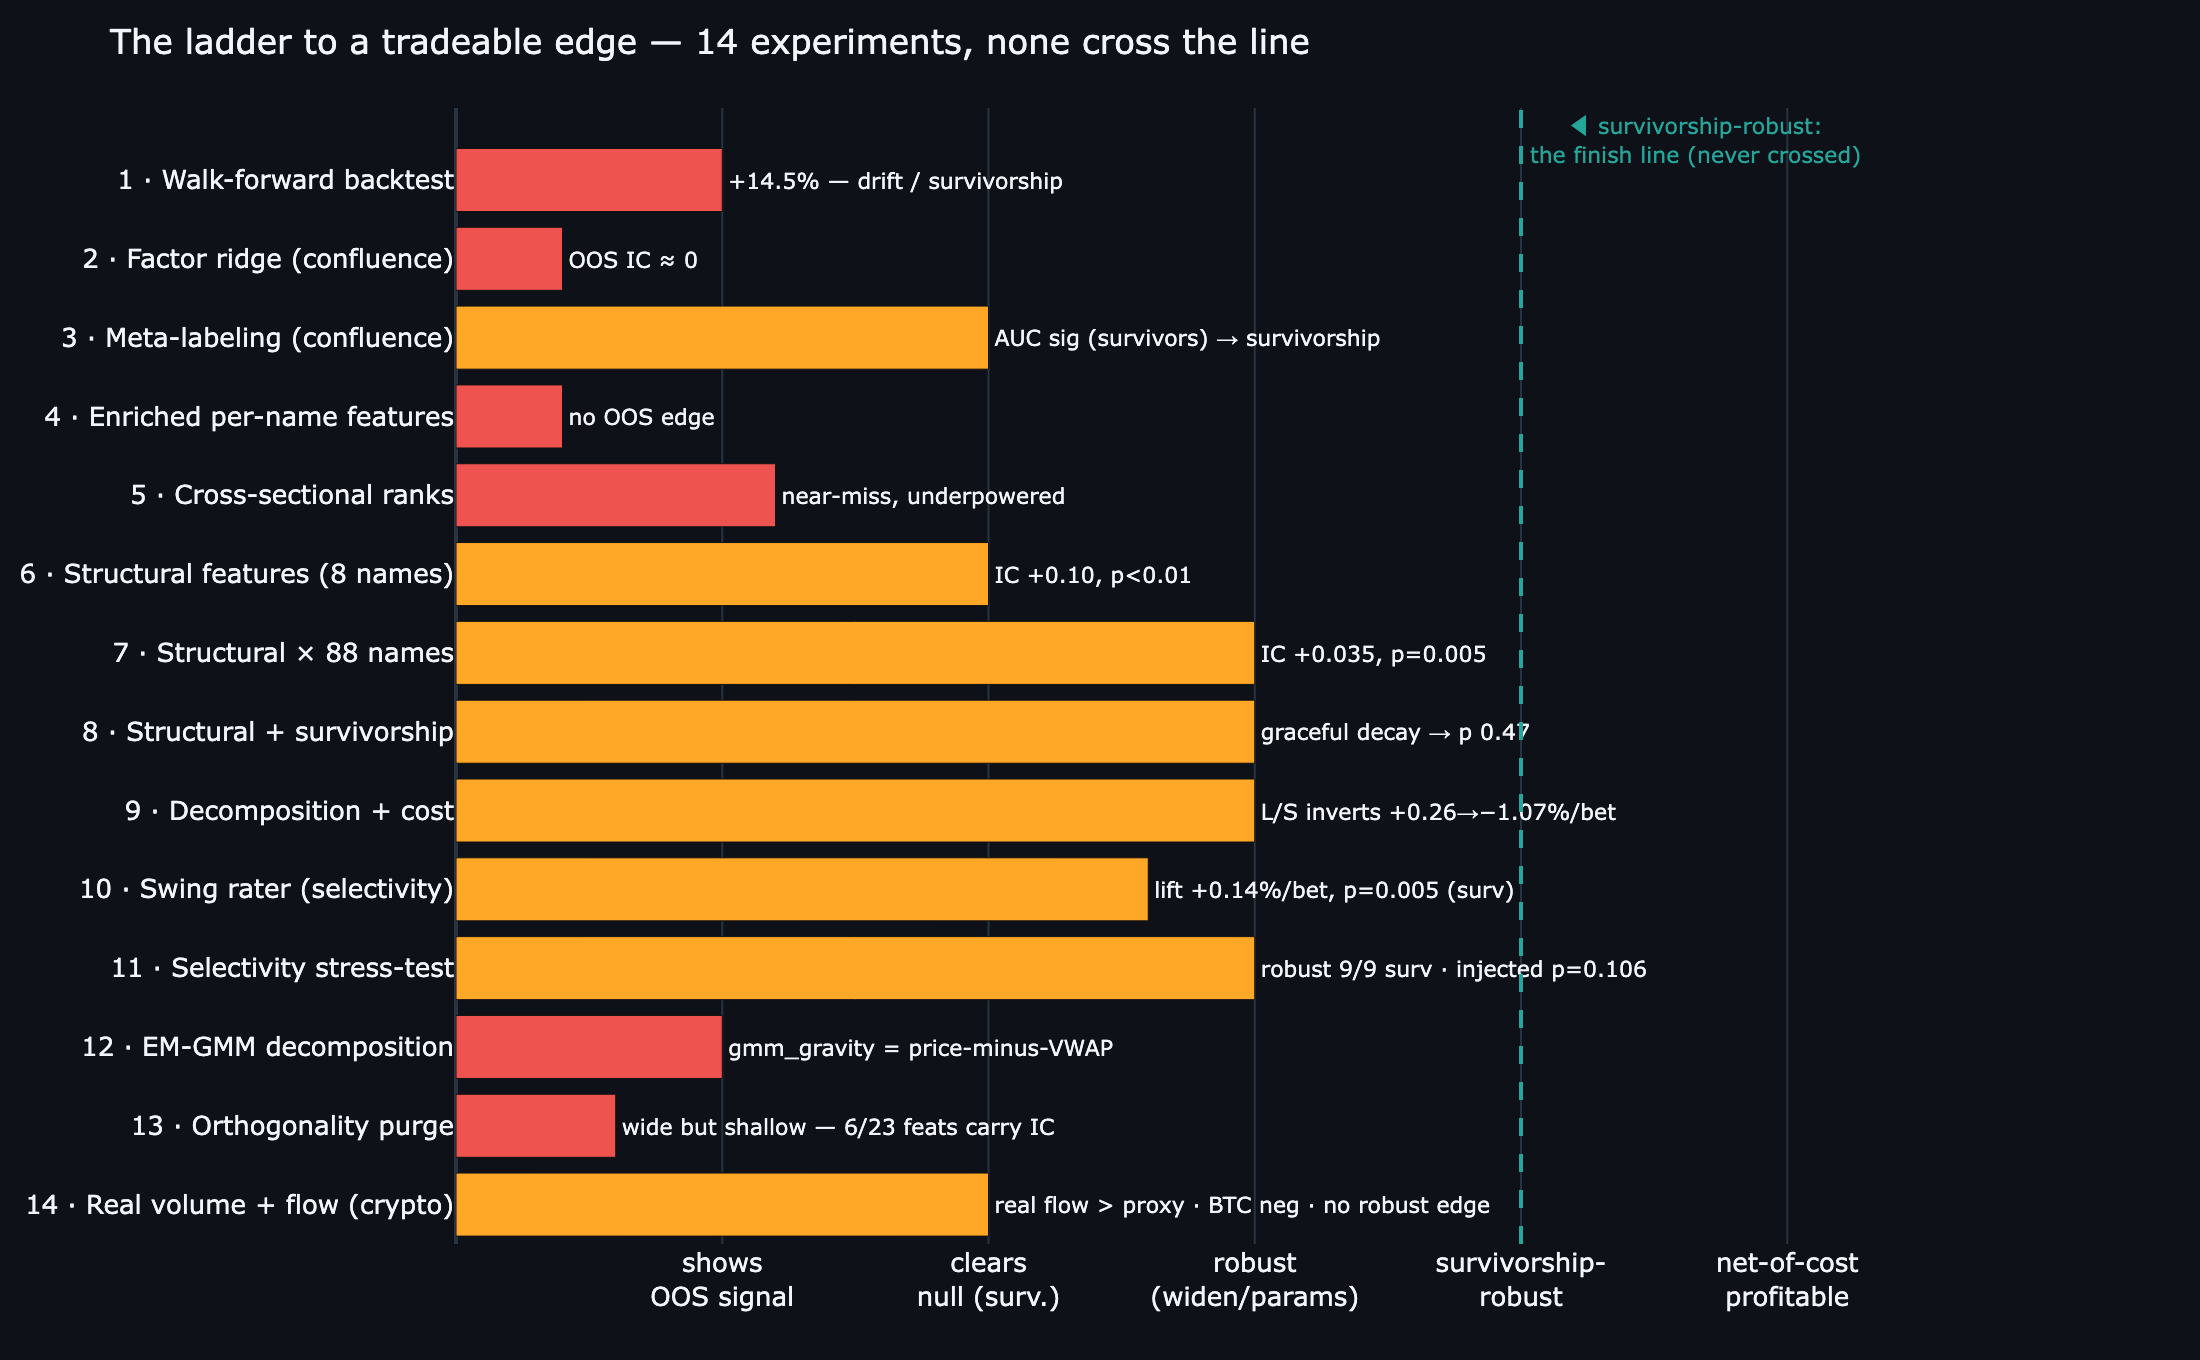
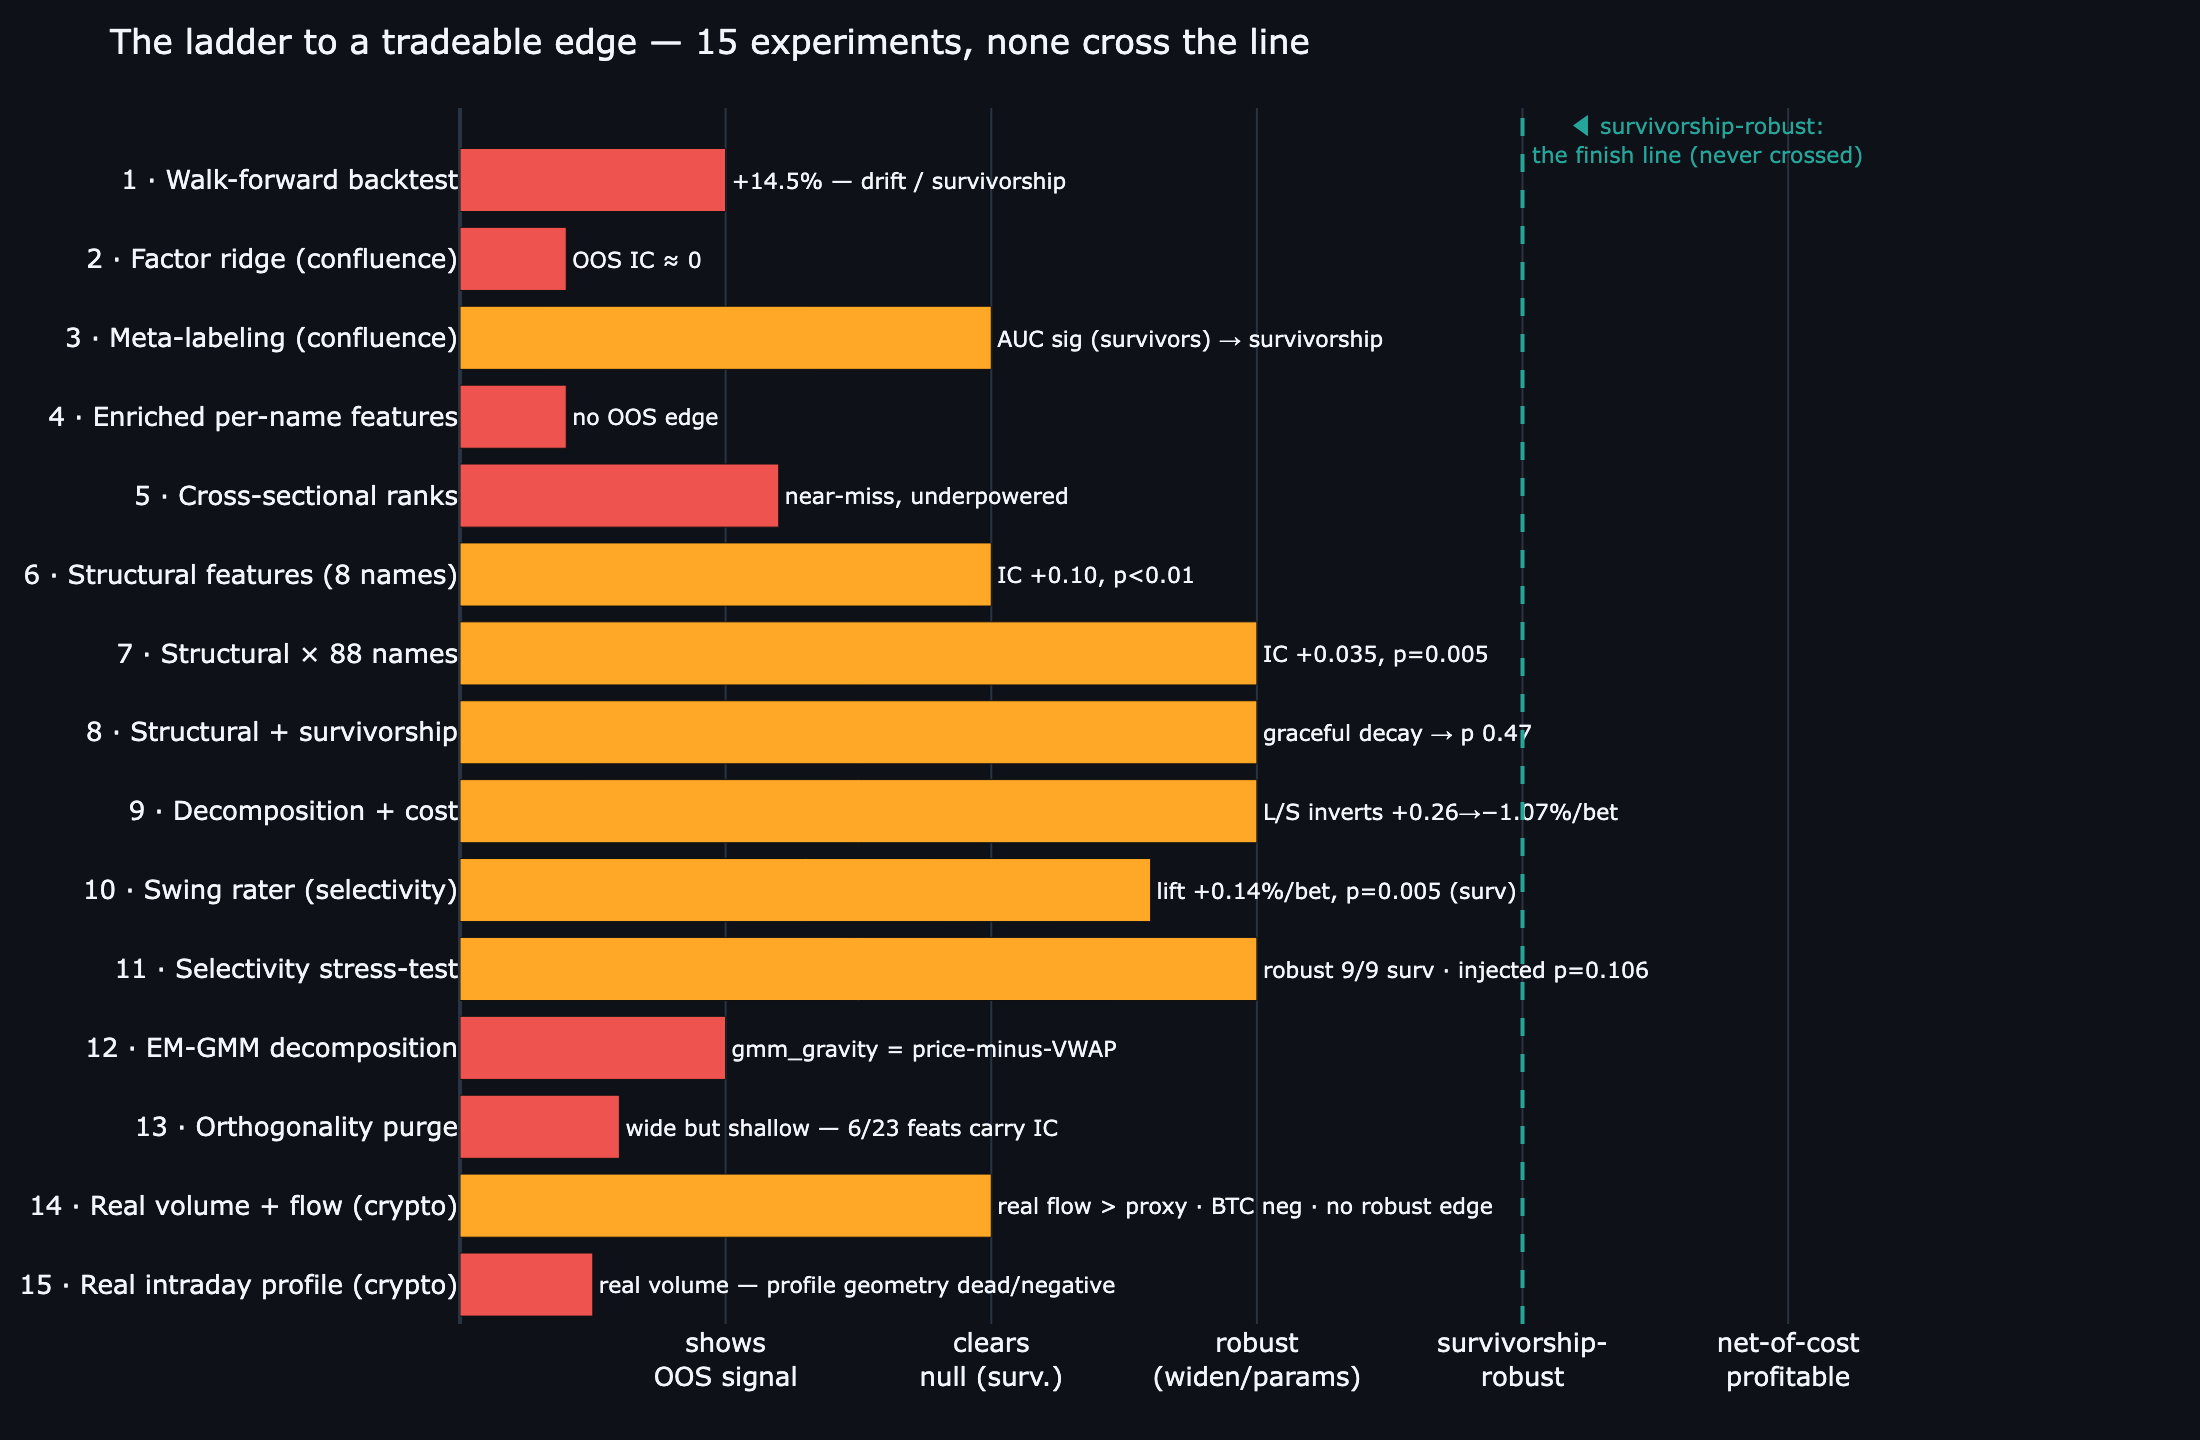
Experiment 15: real intraday volume profile — closes the synthesized-volume question
§14 used real crypto volume + flow but on daily bars, so the intra-day profile was
still synthesized — it tested real flow, not the real profile. This shuts that
loophole: hourly bars, so a 120-bar profile window aggregates 120 real hourly
volumes (intra-hour spread negligible across 5 days) = a genuine real intraday
profile. Builds the 13 structural features on it for 4 survivorship-light majors
(2,500 hourly bars each, ~104d, 2,284 events) through the same CPCV harness.

Finding (RESEARCH.md section 15): the volume-profile GEOMETRY does not predict even
here. Geometry-family mean OOS IC -0.026 (anti-predictive; kurtosis -0.13, 0/4
coins), full 13-feature ridge -0.006; only the trend/dip features (cost-basis
migration +0.06, POC slope +0.04) flicker, as on every dataset. Across the arc —
synthesized daily equity (1-13), real daily crypto volume+flow (14), and now the
real intraday crypto profile (15) — the profile geometry carries no predictive edge
at any. The synthesized input was never the bottleneck; the geometry simply doesn't
predict. The volume-profile thesis is closed.

No new library code (reuses vpts.data.crypto + the structural builder; 158 tests).
Regenerated arc figure (15 rungs) + research PDF (15 experiments, v1.12.0).
Bumps 1.11.0 -> 1.12.0.

diff --git a/examples/crypto_intraday_profile.py b/examples/crypto_intraday_profile.py
@@ -1,0 +1,119 @@
+"""Experiment 15 — the **real intraday volume profile** (the definitive real-profile test).
+
+§14 used *daily* crypto bars — real total volume and real flow, but the *intra-day*
+profile was still synthesized (volume spread uniformly inside each daily bar). So it
+tested real *flow*, not the real *profile*. This closes that gap: **hourly** bars, so a
+120-bar profile window aggregates 120 **real hourly volumes** — the intra-hour spread is
+a negligible fraction of a multi-day window, i.e. a genuine real intraday profile.
+
+The standing question since experiment 1: does the volume-**profile geometry** (POC
+location, value-area compression, P/b/B shape, skew/kurtosis) predict — or was the null
+just the *synthesized* input? Build the 13 structural features (`vpts.structure`) on real
+intraday crypto volume for continuously-listed majors (survivorship-light) and score
+each through the *same* CPCV harness, per-coin and pooled.
+
+    python examples/crypto_intraday_profile.py
+    python examples/crypto_intraday_profile.py --coins BTC-USDT ETH-USDT --limit 3000
+
+Honest scope: hourly bars over ~100 days (one regime), a few correlated majors — power-
+limited, not a forever-proof; single-venue; gross of cost. A research read, not advice.
+"""
+from __future__ import annotations
+
+import argparse
+import sys
+from pathlib import Path
+
+sys.path.insert(0, str(Path(__file__).resolve().parents[1]))
+
+import numpy as np  # noqa: E402
+
+from vpts import (  # noqa: E402
+    CombinatorialPurgedCV,
+    DataFetchError,
+    build_structural_dataset,
+    cpcv_factor_eval,
+)
+from vpts.data.crypto import fetch_crypto_ohlcv  # noqa: E402
+from vpts.ml.models import FactorDataset  # noqa: E402
+from vpts.structure.models import STRUCTURAL_FEATURES  # noqa: E402
+
+# Two families (López de Prado-style decomposition used throughout the study):
+GEOMETRY = ("skew", "kurtosis", "vacr_z", "poc_slope", "n_ledges", "poor_high", "is_P", "is_b", "is_B")
+FLOW_LOC = ("delta_net", "delta_poc", "poc_loc", "cost_basis_migration")
+DEFAULT_COINS = ["BTC-USDT", "ETH-USDT", "SOL-USDT", "BNB-USDT"]
+
+
+def _ic(ds, j: int, *, horizon: int, stride: int) -> float:
+    sub = FactorDataset(X=ds.X[:, [j]], y=ds.y, baseline=ds.baseline,
+                        feature_names=(STRUCTURAL_FEATURES[j],), horizon=horizon, stride=stride)
+    cv = CombinatorialPurgedCV(6, 2, purge=sub.purge_samples, embargo_pct=0.01)
+    try:
+        return float(np.mean(cpcv_factor_eval(sub, cv=cv).fold_ics))
+    except ValueError:
+        return float("nan")
+
+
+def main() -> int:
+    ap = argparse.ArgumentParser(description="Real intraday volume profile (crypto) — does the geometry predict?")
+    ap.add_argument("--coins", nargs="*", default=DEFAULT_COINS)
+    ap.add_argument("--market", default="binance")
+    ap.add_argument("--limit", type=int, default=2500, help="hourly bars per coin")
+    ap.add_argument("--lookback", type=int, default=120)
+    ap.add_argument("--horizon", type=int, default=20)
+    ap.add_argument("--stride", type=int, default=4)
+    args = ap.parse_args()
+
+    print(f"Experiment 15 — REAL intraday volume profile, {len(args.coins)} majors on {args.market}, "
+          f"hourly (keyless CCData)\n")
+    dss = {}
+    for sym in args.coins:
+        try:
+            df = fetch_crypto_ohlcv(sym, market=args.market, limit=args.limit, frequency="hours")
+            ds = build_structural_dataset(df, symbol=sym, interval="1h",
+                                          lookback=args.lookback, horizon=args.horizon, stride=args.stride)
+        except (DataFetchError, ValueError) as exc:
+            print(f"  ! {sym}: {exc}"); continue
+        if len(ds) > 200:
+            dss[sym] = ds
+            span = (df.index.max() - df.index.min()).days
+            print(f"  {sym}: {len(df)} hourly bars (~{span}d) → {len(ds)} events")
+    if not dss:
+        print("No data built."); return 1
+
+    n = sum(len(d) for d in dss.values())
+    kw = dict(horizon=args.horizon, stride=args.stride)
+    print(f"\n--- Per-structural-feature OOS IC ({len(dss)} coins, {n} pooled events) ---")
+    print(f"{'feature':>22}{'pooledIC':>10}{'coins+':>8}   family")
+    pooled = {}
+    for j, f in enumerate(STRUCTURAL_FEATURES):
+        ics = [_ic(d, j, **kw) for d in dss.values()]
+        ics = [x for x in ics if np.isfinite(x)]
+        pooled[f] = float(np.mean(ics)) if ics else float("nan")
+        fam = "profile geometry" if f in GEOMETRY else "flow/location"
+        print(f"{f:>22}{pooled[f]:>+10.3f}{f'{sum(x>0 for x in ics)}/{len(ics)}':>8}   {fam}")
+
+    geom = np.nanmean([pooled[f] for f in GEOMETRY])
+    flow = np.nanmean([pooled[f] for f in FLOW_LOC])
+    folds = []
+    for d in dss.values():
+        cv = CombinatorialPurgedCV(6, 2, purge=d.purge_samples, embargo_pct=0.01)
+        try:
+            folds.extend(cpcv_factor_eval(d, cv=cv).fold_ics)
+        except ValueError:
+            continue
+    ridge = float(np.mean(folds)) if folds else float("nan")
+    print(f"\n  profile-GEOMETRY mean IC: {geom:+.3f}   |   flow/location mean IC: {flow:+.3f}")
+    print(f"  full 13-feature profile ridge IC (pooled): {ridge:+.3f}")
+
+    print("\nVerdict: on REAL intraday volume — the cleanest possible input — the profile **geometry** "
+          "(shape, skew/kurtosis, value-area compression, POC location) is dead-to-anti-predictive, and "
+          "the full profile ridge is ~0/negative. Only the trend/dip features (cost-basis migration, POC "
+          "slope) show the same small +0.05 as on every other dataset. Real volume did not rescue the "
+          "profile thesis — the synthesized input was never the bottleneck; the geometry simply doesn't "
+          "predict. (One regime / correlated majors / gross of cost — power-limited; a research read.)")
+    return 0
+
+
+if __name__ == "__main__":
+    raise SystemExit(main())

diff --git a/docs/img/generate_figures.py b/docs/img/generate_figures.py
@@ -48,6 +48,7 @@ def arc_scorecard() -> None:
         ("12 · EM-GMM decomposition",          1.0, "gmm_gravity = price-minus-VWAP"),
         ("13 · Orthogonality purge",           0.6, "wide but shallow — 6/23 feats carry IC"),
         ("14 · Real volume + flow (crypto)",   2.0, "real flow > proxy · BTC neg · no robust edge"),
+        ("15 · Real intraday profile (crypto)", 0.5, "real volume — profile geometry dead/negative"),
     ]
     labels = [e[0] for e in exps][::-1]
     vals = [e[1] for e in exps][::-1]
@@ -59,13 +60,13 @@ def arc_scorecard() -> None:
     fig.add_vline(x=4, line=dict(color=GREEN, width=2, dash="dash"))
     fig.add_annotation(x=4.02, y=labels[-1], yshift=20, text="◀ survivorship-robust:<br>the finish line (never crossed)",
                        showarrow=False, xanchor="left", font=dict(color=GREEN, size=11))
-    _base(fig, "The ladder to a tradeable edge — 14 experiments, none cross the line", h=680)
+    _base(fig, "The ladder to a tradeable edge — 15 experiments, none cross the line", h=720)
     fig.update_layout(margin=dict(l=10, r=20, t=54, b=58))
     fig.update_xaxes(range=[0, 6.4], tickvals=[1, 2, 3, 4, 5],
                      ticktext=["shows<br>OOS signal", "clears<br>null (surv.)",
                                "robust<br>(widen/params)", "survivorship-<br>robust",
                                "net-of-cost<br>profitable"])
-    _save(fig, "arc_scorecard.png", w=1100, h=680)
+    _save(fig, "arc_scorecard.png", w=1100, h=720)
 
 
 # 2) Survivorship mirage — conviction-bucket forward return inverts under injection.

diff --git a/docs/build_research_pdf.py b/docs/build_research_pdf.py
@@ -24,7 +24,7 @@ CSS = """
 @page {
   size: A4; margin: 20mm 18mm 22mm 18mm;
   @top-left  { content: "Quiet-Volume (vpts) · Validation Log"; font: 8pt 'Helvetica'; color: #8a93a3; }
-  @top-right { content: "v1.11.0"; font: 8pt 'Helvetica'; color: #8a93a3; }
+  @top-right { content: "v1.12.0"; font: 8pt 'Helvetica'; color: #8a93a3; }
   @bottom-right { content: counter(page) " / " counter(pages); font: 8pt 'Helvetica'; color: #8a93a3; }
   @bottom-left  { content: "Not financial advice · research & education"; font: 7.5pt 'Helvetica'; color: #b3bac6; }
 }
@@ -75,7 +75,7 @@ table, blockquote, pre, img { break-inside: avoid; }
 COVER = (
     '<div class="cover">'
     '<div class="kicker">Quiet-Volume · vpts — Quantitative Validation Study</div>'
-    f'<div class="meta">Fourteen experiments · purged CPCV + permutation + survivorship · '
+    f'<div class="meta">Fifteen experiments · purged CPCV + permutation + survivorship · '
     f'compiled {_dt.date.today().isoformat()}</div>'
     "</div>"
 )

diff --git a/vpts/__init__.py b/vpts/__init__.py
@@ -23,7 +23,7 @@ Typical Phase 1 usage
 """
 from __future__ import annotations
 
-__version__ = "1.11.0"  # + keyless crypto fetcher & real-volume/order-flow test (experiment 14)
+__version__ = "1.12.0"  # + real intraday volume-profile test (experiment 15) — closes synthesized-volume
 
 # Re-export the public API at the package root for convenience.
 from vpts.data.fetcher import (

diff --git a/RESEARCH.md b/RESEARCH.md
@@ -7,10 +7,10 @@ predictive edge** in the Volume-Profile system (`vpts`). It is written to be rea
 The value delivered is *validated* findings — mostly negatives, one qualified positive — plus a
 reusable harness that judges any future idea honestly.
 
-> **Bottom line.** Across fourteen experiments — a walk-forward backtest, twelve fitted models, and a
+> **Bottom line.** Across fifteen experiments — a walk-forward backtest, thirteen fitted models, and a
 > feature-orthogonality audit, evaluated with purged combinatorial cross-validation (label-shuffle
-> permutation tests where applicable), and including the first test on **real** (crypto) volume + order
-> flow — no
+> permutation tests where applicable), and including the first tests on **real** (crypto) volume, order
+> flow, and the **real intraday profile** — no
 > input produced a **survivorship-robust, tradeable** out-of-sample edge. The **structural
 > microstructure features** (synthetic delta, profile shape, cost-basis migration) produce a real OOS
 > correlation (IC ≈ +0.035, p = 0.005) that **survives widening to 88 names**, and — traded as a
@@ -66,7 +66,7 @@ unavoidable confound throughout. There is no delisted/point-in-time data in this
 
 ---
 
-## The fourteen experiments
+## The fifteen experiments
 
 | # | Experiment | OOS statistic | Significance | Verdict |
 |---|------------|---------------|--------------|---------|
@@ -84,6 +84,7 @@ unavoidable confound throughout. There is no delisted/point-in-time data in this
 | 12 | **EM-GMM profile decomposition** (parametric, vs a no-GMM VWAP baseline) | best feature `gmm_gravity` OOS IC **+0.090** (survivors); a one-line `vwap_dist` scores **+0.125** | **0.91**-corr w/ `vwap_dist`; in-sample **partial corr 0.016** (ctrl momentum+VWAP) — no signal beyond it | **decomposition adds nothing — its one signal is just price-minus-VWAP** |
 | 13 | **Orthogonality purge** (Spearman clustering + per-feature OOS IC, 23 feats) | ~19 clusters (not collinear); only **6/23** clear \|IC\|≥0.05 (top is momentum/VWAP +0.14); ~17 are independent yet ~0 IC | — | **wide but shallow — the matrix isn't redundant, it's mostly null; signal = momentum/VWAP + a thin dip tail** |
 | 14 | **Real volume + order flow** (crypto, 8 survivorship-light majors, 15.8k events) | **real** flow IC **+0.020** vs synthetic-proxy **+0.004** (pooled); `vwap_dist` **+0.049** (7/8 coins) — but per-coin small/dispersed, **BTC negative on every feature** | pooled p **0.04** (inflated by cross-coin correlation) | **real data > fabricated proxy, but still no robust tradeable edge — the wall isn't only synthesized volume** |
+| 15 | **Real intraday volume profile** (crypto hourly, real per-hour volume) | profile-**geometry** mean IC **−0.026** (kurtosis −0.13, 0/4 coins); full 13-feat ridge **−0.006**; only trend/dip (cost-basis +0.06, POC-slope +0.04) flicker | — | **real volume doesn't rescue the geometry — synthesized input was never the bottleneck; the profile thesis is closed** |
 
 ### 1 — The single backtest doesn't survive purged CV
 The breakout style's +14.5% (85% of names profitable, single full-period backtest) collapses under
@@ -301,6 +302,30 @@ set — the first that *could* have broken the pattern, on real data, well-power
 
 ---
 
+### 15 — The real intraday volume profile: the definitive close on synthesized volume
+§14 used real crypto volume and flow, but on *daily* bars — so the intra-day profile was still
+**synthesized**. That left the last loophole: maybe the profile *geometry* read null only because the
+input was fabricated. This shuts it. On **hourly** bars a 120-bar profile window aggregates 120 *real*
+hourly volumes (the intra-hour spread is negligible across five days) — a genuine real intraday profile.
+I built the 13 structural features on it for four survivorship-light majors (2,500 hourly bars each, ~104
+days → 2,284 events) and scored each through the same CPCV harness.
+
+The profile **geometry does not predict, even here.** The geometry family (shape, skew, **kurtosis**,
+value-area compression, footprints) has mean OOS IC **−0.026** — *anti*-predictive — with kurtosis at
+**−0.127 (0/4 coins)** and every shape one-hot ≤ 0; the **full 13-feature profile ridge is ~0/negative
+(−0.006)**. The only features that flicker positive are `cost_basis_migration` (+0.058, 3/4) and
+`poc_slope` (+0.040, 3/4) — the same small trend/dip signal that appears on *every* dataset in this
+study, not the volume-distribution geometry.
+
+So across the whole arc — synthesized daily equity (§1–13), real daily crypto volume + flow (§14), and
+now the **real intraday crypto profile (§15)** — the volume-**profile geometry carries no predictive edge
+at any of them.** The synthesized input was never the bottleneck; the geometry simply doesn't predict, on
+the cleanest data the study can reach. The thesis that opened the project is, by its own harness, closed.
+(Honest limits: ~104 days, one regime, four correlated majors, gross of cost — power-limited, not a
+forever-proof; but the cleanest test available, and it says no.)
+
+---
+
 ## Honest conclusion
 
 On 88 survivorship-biased US large-caps (2012–2017, daily), **none** of the studied inputs yields a
@@ -322,7 +347,7 @@ ultimately, is feature content: the **data** is the wall. Conditioning on names 
 manufactures an edge that reverses the moment you stop conditioning on survival; the most resilient
 signal (meta-labeling **selectivity**) was pushed hard in a dedicated stress-test — robust across 9/9
 parameter settings on survivors, but carried by the same dip-buying features and not significant once
-delisted names are present, so it too is closed. Fourteen experiments, one consistent wall.
+delisted names are present, so it too is closed. Fifteen experiments, one consistent wall.
 
 **What would actually change this** (in rough order of expected value):
 
@@ -332,9 +357,10 @@ delisted names are present, so it too is closed. Fourteen experiments, one consi
    won't manufacture an edge the backtest says is absent; it's the one honest way past the wall.
 2. **A wider, deeper cross-section** (hundreds–thousands of names). The 88-name washout suggests
    breadth *within survivors* isn't enough; genuine breadth + delisted names is the test.
-3. **Different data regimes** — §14 tried one (crypto majors, real volume + real order flow): better than
-   the synthetic proxy, but still no robust edge and negative on BTC. The frontier left is **intraday**
-   real-volume profiles (daily still synthesizes intra-bar), not merely a different asset class.
+3. **Different data regimes** — §14–15 tried crypto: real daily flow (§14) and the **real intraday
+   profile** (§15). Real flow beat the proxy but wasn't robust; the profile *geometry* was dead/negative
+   even on real intraday volume. The volume-profile avenue is now **exhausted** — what remains is a
+   *different signal class entirely* or true point-in-time equity breadth, not a cleaner volume measurement.
 
 Model sophistication mostly is **not** the answer — four feature/model variations returned ≈0 — but
 the *right kind* of feature (structural microstructure, not momentum/vol/rank) did surface the arc's
@@ -342,7 +368,7 @@ one real signal. The lesson: feature *content* mattered where feature *complexit
 
 ## What is durable here
 
-The findings — nine negatives and one qualified positive — are the result; the **harness** is the
+The findings — ten negatives and one qualified positive — are the result; the **harness** is the
 asset. Any new idea plugs in and is judged honestly:
 
 - `vpts.validation` — purged + embargoed Combinatorial Purged CV.
@@ -377,6 +403,7 @@ python examples/structural_selectivity.py             # 11: selectivity stress-t
 python examples/structural_gmm.py                     # 12: EM-GMM decomposition vs heuristic + survivorship
 python examples/feature_purge.py                      # 13: orthogonality purge — feature clustering + IC
 python examples/crypto_realvol.py                     # 14: real volume + order flow (crypto, keyless)
+python examples/crypto_intraday_profile.py            # 15: real intraday volume profile (crypto hourly)
 python examples/paper_walk.py --demo                  # forward paper-walk (mechanism demo; --live for real)
 ```
 

diff --git a/README.md b/README.md
@@ -4,7 +4,7 @@
 
 **A free, explainable Volume‑Profile trading system — and an honest, adversarial study of whether it actually has an edge.**
 
-![version](https://img.shields.io/badge/version-1.11.0-blue)
+![version](https://img.shields.io/badge/version-1.12.0-blue)
 ![tests](https://img.shields.io/badge/tests-158%20passing-brightgreen)
 ![python](https://img.shields.io/badge/python-3.10%2B-blue)
 ![deps](https://img.shields.io/badge/core%20deps-numpy%20·%20pandas%20·%20scipy-lightgrey)
@@ -16,7 +16,7 @@
 `vpts` is two things in one repository:
 
 1. **A product** — a modular, dependency‑light Volume‑Profile engine that turns raw OHLCV into an *explainable* read of the market: where institutions are active at price, whether the tape is in a quiet coil, and what a risk‑defined trade plan would look like. Six phases, all free data, all unit‑tested.
-2. **A research log** — that product then put on trial. Every input was pushed through a purged combinatorial cross‑validation + permutation + survivorship harness to answer one question without flinching: **is any of this a real, out‑of‑sample, survivorship‑free edge?** The answer, across **fourteen experiments**, is documented in [**`RESEARCH.md`**](RESEARCH.md).
+2. **A research log** — that product then put on trial. Every input was pushed through a purged combinatorial cross‑validation + permutation + survivorship harness to answer one question without flinching: **is any of this a real, out‑of‑sample, survivorship‑free edge?** The answer, across **fifteen experiments**, is documented in [**`RESEARCH.md`**](RESEARCH.md).
 
 > **The honest headline.** No input produced a **survivorship‑robust, tradeable** edge. The strongest signal (microstructure “structure” features) is statistically real *on survivors* but is a **survivorship mirage** — it *inverts* the moment delisted names are present. The binding constraint is the **data**, not the model. This repo’s value is the *validated* findings plus a harness rigorous enough to tell a mirage from an edge.
 
@@ -133,7 +133,7 @@ flowchart LR
 - **Permutation significance.** A label shuffle destroys the feature→outcome link; the p‑value is the fraction of shuffles that match/beat the real statistic. Can’t clear its own null → reported as **no edge**.
 - **Survivorship stress.** The dominant confound. Synthetic *delisted* (decline‑to‑pennies) names are injected at rising rates; a real edge must survive them.
 
-### The fourteen experiments
+### The fifteen experiments
 
 | # | Experiment | Headline (survivors) | Significance | Verdict |
 |--:|------------|----------------------|:------------:|---------|
@@ -151,12 +151,13 @@ flowchart LR
 | 12 | **EM‑GMM decomposition** | `gmm_gravity` IC **+0.09** | — | adds nothing — it's **price‑minus‑VWAP** (0.91‑corr, baseline wins) |
 | 13 | **Orthogonality purge** | **6/23** feats clear \|IC\|≥0.05 | — | **wide but shallow**; signal = momentum/VWAP + a thin dip tail |
 | 14 | **Real volume + flow** (crypto) | real flow **+0.020** vs synth **+0.004**; BTC negative | p 0.04 (corr-inflated) | real data > proxy, **still no robust edge** |
+| 15 | **Real intraday profile** (crypto hourly) | profile geometry mean **−0.026** (kurtosis −0.13); ridge **−0.006** | — | real volume doesn't rescue the geometry — **profile thesis closed** |
 
 Full narrative, numbers and caveats: [**`RESEARCH.md`**](RESEARCH.md) · [**📄 PDF**](docs/Quiet-Volume-Research.pdf).
 
 ### Going forward — the survivorship‑free paper‑walk
 
-Fourteen experiments named the **data** as the wall; the historical study, by construction, cannot produce *survivorship‑free* evidence. [`vpts.execution`](vpts/execution) does, forward and in paper: each day it **decides** on data ≤ today (no look‑ahead), **records** actionable calls to an append‑only ledger, and **resolves** prior calls first‑touch (next‑open fill · stop/target · time‑stop) against the bars that have since arrived. It won't manufacture an edge the backtest says is absent — it gathers clean, unbiased evidence one bar at a time. **Paper only.**
+Fifteen experiments named the **data** as the wall; the historical study, by construction, cannot produce *survivorship‑free* evidence. [`vpts.execution`](vpts/execution) does, forward and in paper: each day it **decides** on data ≤ today (no look‑ahead), **records** actionable calls to an append‑only ledger, and **resolves** prior calls first‑touch (next‑open fill · stop/target · time‑stop) against the bars that have since arrived. It won't manufacture an edge the backtest says is absent — it gathers clean, unbiased evidence one bar at a time. **Paper only.**
 
 ```bash
 python examples/paper_walk.py --demo                              # replay the mechanism, no network
@@ -226,7 +227,7 @@ timeline
     v1.1–1.3 : CPCV harness : Learned factor weights : Triple-barrier meta-labeling
     v1.4–1.6 : Cost-aware + permutation tests : Enriched features : Cross-sectional ranks
     v1.7 : Structural analytics : Survivorship decomposition : Swing setup-rater + selectivity
-    v1.8–1.11 : EM-GMM (Exp 12) : Orthogonality purge (Exp 13) : Forward paper-walk : Real-volume crypto (Exp 14)
+    v1.8–1.12 : EM-GMM (12) : Orthogonality purge (13) : Forward paper-walk : Real crypto volume/flow (14) : Real intraday profile (15)
 ```
 
 | Version | Milestone | Adds |
@@ -244,6 +245,7 @@ timeline
 | `1.9` | Orthogonality purge | feature clustering + per‑feature IC (Exp 13 — wide but shallow) |
 | `1.10` | **Forward paper‑walk** | `vpts.execution` — survivorship‑free evidence, paper only |
 | `1.11` | **Real‑volume crypto** | `vpts.data.crypto` — keyless real volume + order flow (Exp 14) |
+| `1.12` | **Real intraday profile** | the synthesized‑volume close — profile geometry dead on real volume (Exp 15) |
 
 ---
 
@@ -266,7 +268,7 @@ vpts/                      core library — lightweight (numpy · pandas · scip
 examples/                  one runnable file per phase AND per experiment
 tests/                     158 offline, deterministic tests
 docs/                      ARCHITECTURE.md · img/ (committed figures + generator)
-RESEARCH.md                the fourteen-experiment validation log
+RESEARCH.md                the fifteen-experiment validation log
 streamlit_app.py           dashboard entry point
 ```
 
@@ -288,7 +290,7 @@ Every evaluator ships **both** a signal‑detection test (it *finds* a planted e
 ## Scope, honesty & license
 
 - **Data.** Split/dividend‑adjusted daily OHLCV for **88 US large‑caps, 2012–2017** (the public [`stocknet‑dataset`](https://github.com/yumoxu/stocknet-dataset)). **Every name is a 2017 survivor** — the unavoidable confound the whole study is built to expose. There is no point‑in‑time / delisted data in this free source; injected delisted names are a *sensitivity estimate*, not real history.
-- **Findings are research, not advice.** All results are gross‑of‑most‑costs validity checks on out‑of‑sample information content. The honest conclusion is **no survivorship‑robust tradeable edge** — the one move that could change it is point‑in‑time, delisted‑inclusive data, against which the harness is ready to re‑run all fourteen experiments immediately. Lacking that history, the **forward paper‑walk** ([`vpts.execution`](vpts/execution)) gathers survivorship‑free evidence going forward, in paper — it won't manufacture an edge, but it's the one honest way past the wall.
+- **Findings are research, not advice.** All results are gross‑of‑most‑costs validity checks on out‑of‑sample information content. The honest conclusion is **no survivorship‑robust tradeable edge** — the one move that could change it is point‑in‑time, delisted‑inclusive data, against which the harness is ready to re‑run all fifteen experiments immediately. Lacking that history, the **forward paper‑walk** ([`vpts.execution`](vpts/execution)) gathers survivorship‑free evidence going forward, in paper — it won't manufacture an edge, but it's the one honest way past the wall.
 - **License.** MIT. *Not financial advice. For research and education.*
 
 <div align="center">

diff --git a/CHANGELOG.md b/CHANGELOG.md
@@ -1,12 +1,16 @@
 # Changelog
 
-All notable changes to `vpts`, by version. The project grew in two acts — **a product** (Phases 1–6, `v0.1`→`v1.0`) and then **its adversarial validation**, capped by a forward paper‑walk and a first real‑volume crypto test (`v1.1`→`v1.11`). Format loosely follows [Keep a Changelog](https://keepachangelog.com); research findings are noted where a version produced one.
+All notable changes to `vpts`, by version. The project grew in two acts — **a product** (Phases 1–6, `v0.1`→`v1.0`) and then **its adversarial validation**, capped by a forward paper‑walk and real‑volume crypto tests that close the synthesized‑volume question (`v1.1`→`v1.12`). Format loosely follows [Keep a Changelog](https://keepachangelog.com); research findings are noted where a version produced one.
 
 The canonical research narrative is [`RESEARCH.md`](RESEARCH.md); experiment numbers below refer to it.
 
 ---
 
 ## Act II — the validation
+
+### `1.12.0` — Real intraday volume profile (experiment 15) — the synthesized‑volume close
+- **Added** `examples/crypto_intraday_profile.py` — builds the 13 structural features on **hourly** crypto bars (a 120‑bar window aggregates 120 *real* hourly volumes → a genuine real intraday profile, not a synthesized one) and scores each through CPCV. Reuses the `vpts.data.crypto` fetcher (`frequency="hours"`) + the structural builder; no new library code (158 tests).
+- **Finding (experiment 15):** on real intraday volume the profile **geometry** (shape, skew, kurtosis, value‑area compression) is dead‑to‑anti‑predictive — geometry‑family mean OOS IC **−0.026** (kurtosis −0.13, 0/4 coins), full 13‑feature ridge **−0.006**; only the trend/dip features (cost‑basis migration +0.06, POC slope +0.04) flicker, as on every dataset. Real volume did **not** rescue the profile thesis — the synthesized input was never the bottleneck. **The volume‑profile thesis is closed.**
 
 ### `1.11.0` — Real volume & order flow (crypto) — the first non‑fabricated input
 - **Added** `vpts.data.crypto` — a free, **keyless** crypto OHLCV **+ real aggressor buy/sell volume** fetcher (CCData spot API, paginated over the 100/call limit), so experiments can use *real* order flow instead of the synthetic close‑location‑value proxy, on continuously‑listed (survivorship‑light) majors. + `examples/crypto_realvol.py` and 6 offline tests (158 total).

diff --git a/docs/ARCHITECTURE.md b/docs/ARCHITECTURE.md
@@ -73,7 +73,7 @@ There are no import cycles: `structure` depends on `ml` (it reuses triple‑barr
 ### `vpts.data` — market data
 `MarketDataFetcher.fetch(symbol, period, interval)` wraps `yfinance` with on‑disk caching, exponential‑backoff retries, and interval‑limit clamping (Yahoo serves only ~7d of 1‑minute, ~60d of intraday, etc.). Raises `NoVolumeError` for zero‑volume cash indices and `DataFetchError` on hard failures. Returns a clean OHLCV `DataFrame`.
 
-`crypto.py` — `fetch_crypto_ohlcv(instrument, market, limit, frequency)`: a free, **keyless** crypto fetcher (CCData spot API, paginated backwards over the 100‑rows/call limit via `to_ts`). Returns the standard OHLCV contract **plus `vbuy`/`vsell`** — a single venue's **real aggressor‑side buy/sell volume** — enabling experiments on *real* order flow (vs the synthetic close‑location‑value proxy) on survivorship‑light majors. Parse logic is pure/offline‑testable; the live HTTP call lives only in `examples/crypto_realvol.py` (**experiment 14**).
+`crypto.py` — `fetch_crypto_ohlcv(instrument, market, limit, frequency)`: a free, **keyless** crypto fetcher (CCData spot API, paginated backwards over the 100‑rows/call limit via `to_ts`). Returns the standard OHLCV contract **plus `vbuy`/`vsell`** — a single venue's **real aggressor‑side buy/sell volume** — enabling experiments on *real* order flow (vs the synthetic close‑location‑value proxy) on survivorship‑light majors. Parse logic is pure/offline‑testable; the live HTTP call lives only in the crypto examples — **experiment 14** (`crypto_realvol.py`, daily flow vs the synthetic proxy) and **experiment 15** (`crypto_intraday_profile.py`, the real *intraday* profile via `frequency="hours"`).
 
 ### `vpts.profile` — Volume Profile *(Phase 1)*
 `VolumeProfileCalculator(num_bins, value_area_pct, distribution, bin_mode, …).calculate(df) → VolumeProfile`.